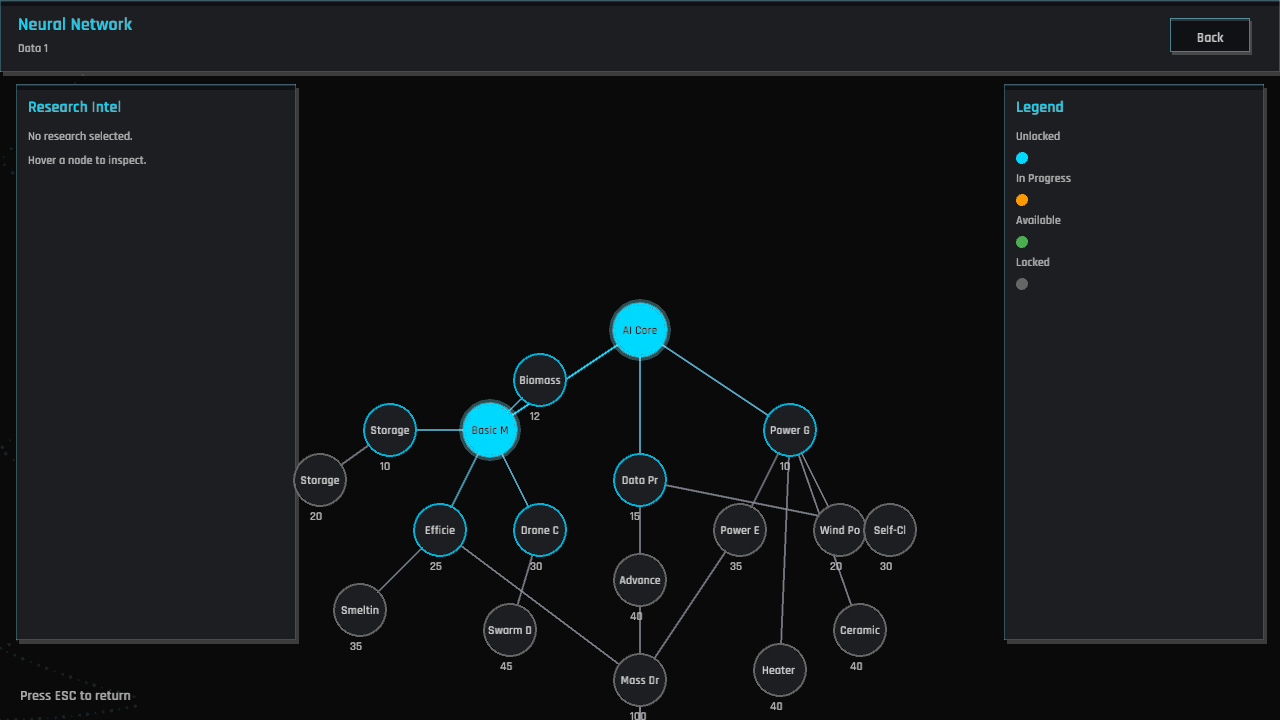
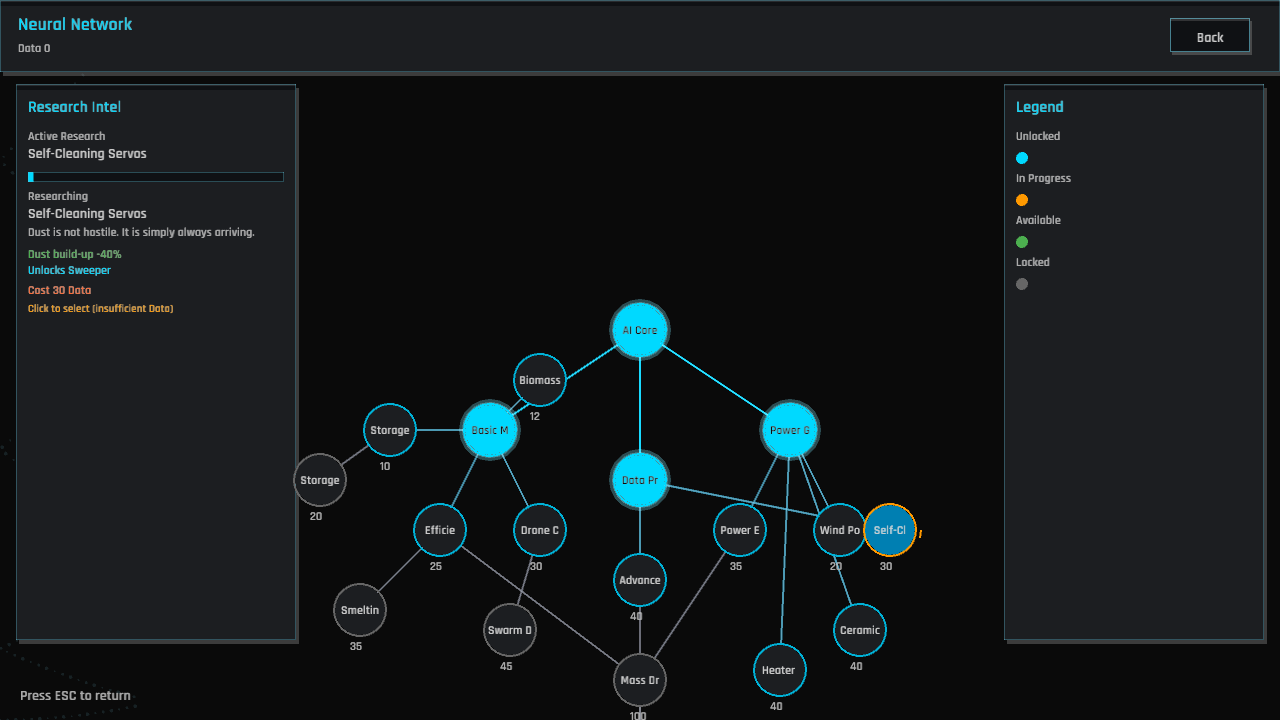
The tree says what a tech does, so the prose no longer has to
Every research node explained itself twice or not at all: the description
carried the numbers ("-40% dust accumulation and unlocks Sweepers") and the
declared modifiers driving the actual simulation were never shown. The
inspect panel now renders them - each stat named and signed, green where it
is a gain and amber where it is a cost - followed by every building the node
opens. Less of a bad thing counts as a gain, so -40% dust reads as good news
while +20% power draw does not.

Stat names live in a "stats" block in research.json and are checked at load:
a stat the game knows with nothing to call itself is a startup failure, not a
panel that quietly shows a raw id. The panel also falls back to whatever is
being researched when nothing is hovered, which is most of the time.

With the numbers rendered from data, all 19 descriptions were free to stop
restating them and say something instead.

diff --git a/src/screens/research_view.rs b/src/screens/research_view.rs
@@ -1,6 +1,6 @@
 //! Neural network research interface
 
-use crate::engine::{ResearchState, ResearchTree};
+use crate::engine::{describe_modifier, ResearchState, ResearchTree};
 use crate::ui::{draw_button_sized, draw_panel, Colors, Dimensions};
 use macroquad::prelude::*;
 use macroquad_toolkit::math::pulse01;
@@ -309,11 +309,18 @@ pub fn render_research_view(
         }
     }
 
-    // Info panel for hovered node
-    if let Some(node_id) = hovered_node {
+    // Info panel. With nothing under the cursor it falls back to whatever is
+    // being researched, so the panel is worth having between hovers.
+    let inspected = hovered_node.or(research_state.current_research.as_deref());
+    if let Some(node_id) = inspected {
         if let Some(node) = research_tree.get_node(node_id) {
+            let heading = if hovered_node.is_some() {
+                "Hovered Node"
+            } else {
+                "Researching"
+            };
             draw_ui_text(
-                "Hovered Node",
+                heading,
                 left_panel_x + 12.0,
                 left_text_y,
                 12.0,
@@ -334,15 +341,18 @@ pub fn render_research_view(
                 Colors::TEXT_DIM,
             );
 
+            // What it actually does, under what it says it does.
+            let mut y = left_text_y + 58.0;
+            for (text, color) in node_effects(node_id) {
+                draw_ui_text(&text, left_panel_x + 12.0, y, 12.0, color);
+                y += 16.0;
+            }
+            y += 4.0;
+
             if !research_state.is_unlocked(node_id) {
                 let cost_text = format!("Cost {:.0} Data", node.data_cost);
-                draw_ui_text(
-                    &cost_text,
-                    left_panel_x + 12.0,
-                    left_text_y + 54.0,
-                    12.0,
-                    Colors::ACCENT,
-                );
+                draw_ui_text(&cost_text, left_panel_x + 12.0, y, 12.0, Colors::ACCENT);
+                y += 18.0;
 
                 if research_tree.can_select(node_id, &research_state.unlocked) {
                     if research_tree.can_research(node_id, &research_state.unlocked, data_available)
@@ -350,7 +360,7 @@ pub fn render_research_view(
                         draw_ui_text(
                             "Click to research",
                             left_panel_x + 12.0,
-                            left_text_y + 72.0,
+                            y,
                             12.0,
                             Colors::SUCCESS,
                         );
@@ -358,7 +368,7 @@ pub fn render_research_view(
                         draw_ui_text(
                             "Click to select (insufficient Data)",
                             left_panel_x + 12.0,
-                            left_text_y + 72.0,
+                            y,
                             11.0,
                             Colors::WARNING,
                         );
@@ -371,7 +381,7 @@ pub fn render_research_view(
                     draw_ui_text(
                         "Prerequisites not met",
                         left_panel_x + 12.0,
-                        left_text_y + 72.0,
+                        y,
                         12.0,
                         Colors::ERROR,
                     );
@@ -379,19 +389,13 @@ pub fn render_research_view(
                     draw_ui_text(
                         "Not enough Data",
                         left_panel_x + 12.0,
-                        left_text_y + 72.0,
+                        y,
                         12.0,
                         Colors::WARNING,
                     );
                 }
             } else {
-                draw_ui_text(
-                    "UNLOCKED",
-                    left_panel_x + 12.0,
-                    left_text_y + 60.0,
-                    12.0,
-                    Colors::SUCCESS,
-                );
+                draw_ui_text("UNLOCKED", left_panel_x + 12.0, y, 12.0, Colors::SUCCESS);
             }
         }
     } else {
@@ -482,4 +486,39 @@ pub fn render_research_view(
     }
 
     ResearchAction::None
+}
+
+/// What a node does, as lines for the hover panel: every stat it moves, then
+/// anything it lets the swarm build.
+///
+/// A node with neither says so rather than showing nothing, because "no
+/// effect" and "the panel forgot to draw" look identical otherwise.
+fn node_effects(node_id: &str) -> Vec<(String, Color)> {
+    let data = crate::data::game_data();
+    let mut lines = Vec::new();
+
+    if let Some(def) = data.research.nodes.iter().find(|node| node.id == node_id) {
+        for modifier in &def.modifiers {
+            let Some(summary) = describe_modifier(modifier) else {
+                continue;
+            };
+            let color = if summary.is_gain {
+                Colors::SUCCESS
+            } else {
+                Colors::WARNING
+            };
+            lines.push((format!("{} {}", summary.label, summary.change), color));
+        }
+    }
+
+    for building in &data.buildings {
+        if building.unlocked_by.as_deref() == Some(node_id) {
+            lines.push((format!("Unlocks {}", building.name), Colors::PRIMARY));
+        }
+    }
+
+    if lines.is_empty() {
+        lines.push(("No direct effect".to_string(), Colors::TEXT_DIM));
+    }
+    lines
 }

diff --git a/src/engine/modifiers.rs b/src/engine/modifiers.rs
@@ -65,6 +65,72 @@ impl StatId {
     pub fn from_id(id: &str) -> Option<Self> {
         StatId::ALL.into_iter().find(|stat| stat.id() == id)
     }
+
+    /// What this stat is called where a player can see it. Falls back to the
+    /// raw id, which is what an unlabelled stat deserves.
+    pub fn label(self) -> &'static str {
+        crate::data::game_data()
+            .research
+            .stats
+            .iter()
+            .find(|entry| entry.id == self.id())
+            .map(|entry| entry.label.as_str())
+            .unwrap_or_else(|| self.id())
+    }
+
+    /// Whether a tech moving this stat down is doing the player a favour.
+    pub fn lower_is_better(self) -> bool {
+        crate::data::game_data()
+            .research
+            .stats
+            .iter()
+            .find(|entry| entry.id == self.id())
+            .is_some_and(|entry| entry.lower_is_better)
+    }
+}
+
+/// One declared modifier, said in words: what it moves, by how much, and
+/// whether that is good news.
+#[derive(Debug, Clone, PartialEq)]
+pub struct ModifierSummary {
+    pub label: &'static str,
+    pub change: String,
+    /// False when the tech is charging the player something for the rest.
+    pub is_gain: bool,
+}
+
+/// Describe a declared modifier for display. `None` for a modifier that does
+/// not parse, which cannot happen in shipped data - it is rejected at load.
+pub fn describe_modifier(def: &ModifierDef) -> Option<ModifierSummary> {
+    let (stat, op, value) = parse_modifier(def).ok()?;
+    let change = match op {
+        ModifierOp::Percent => format!("{}{:.0}%", sign(value), value * 100.0),
+        ModifierOp::Add => format!("{}{}", sign(value), trim_number(value)),
+    };
+    Some(ModifierSummary {
+        label: stat.label(),
+        change,
+        is_gain: (value < 0.0) == stat.lower_is_better(),
+    })
+}
+
+fn sign(value: f32) -> &'static str {
+    if value < 0.0 {
+        // The number already carries its minus.
+        ""
+    } else {
+        "+"
+    }
+}
+
+/// Whole numbers without a trailing `.0`, because "+1 drone" reads better
+/// than "+1.0 drone".
+fn trim_number(value: f32) -> String {
+    if (value - value.round()).abs() < 0.001 {
+        format!("{:.0}", value)
+    } else {
+        format!("{:.2}", value)
+    }
 }
 
 /// How a modifier folds into a stat.
@@ -179,6 +245,47 @@ mod tests {
             op: op.to_string(),
             value,
         }
+    }
+
+    #[test]
+    fn every_stat_the_game_knows_has_something_to_call_itself() {
+        for stat in StatId::ALL {
+            assert_ne!(
+                stat.label(),
+                stat.id(),
+                "{} is only ever shown as its raw id",
+                stat.id()
+            );
+        }
+    }
+
+    #[test]
+    fn a_percent_is_said_as_a_percent_and_a_count_as_a_count() {
+        let percent = describe_modifier(&modifier("drill_output", "percent", 0.25)).unwrap();
+        assert_eq!(percent.change, "+25%");
+        let count = describe_modifier(&modifier("drones_per_drill", "add", 1.0)).unwrap();
+        assert_eq!(count.change, "+1");
+        assert_eq!(count.label, StatId::DronesPerDrill.label());
+    }
+
+    #[test]
+    fn less_of_a_bad_thing_reads_as_a_gain_and_more_of_it_does_not() {
+        let quieter = describe_modifier(&modifier("dust_accumulation", "percent", -0.3)).unwrap();
+        assert_eq!(quieter.change, "-30%");
+        assert!(quieter.is_gain, "less dust is good news");
+
+        let hungrier = describe_modifier(&modifier("power_consumption", "percent", 0.2)).unwrap();
+        assert!(!hungrier.is_gain, "more power draw is a cost");
+
+        // And the ordinary direction still holds for ordinary stats.
+        let weaker = describe_modifier(&modifier("drill_output", "percent", -0.1)).unwrap();
+        assert!(!weaker.is_gain);
+    }
+
+    #[test]
+    fn a_modifier_the_game_cannot_read_is_not_described() {
+        assert!(describe_modifier(&modifier("not_a_stat", "add", 1.0)).is_none());
+        assert!(describe_modifier(&modifier("drill_output", "multiply", 1.0)).is_none());
     }
 
     #[test]

diff --git a/src/data/defs.rs b/src/data/defs.rs
@@ -116,10 +116,24 @@ impl ResearchNodeDef {
     }
 }
 
+/// What a stat is called where a player can see it, and which direction is
+/// good news. Without this a modifier can only be shown as its raw id.
+#[derive(Debug, Clone, Deserialize)]
+pub struct StatLabelDef {
+    pub id: String,
+    pub label: String,
+    /// True for stats a tech is trying to push *down* - dust, power draw, how
+    /// much of a hazard still gets through.
+    #[serde(default)]
+    pub lower_is_better: bool,
+}
+
 #[derive(Debug, Clone, Deserialize)]
 pub struct ResearchData {
     pub starting_unlocked: Vec<String>,
     pub nodes: Vec<ResearchNodeDef>,
+    #[serde(default)]
+    pub stats: Vec<StatLabelDef>,
 }
 
 /// What one Seed Ship stage swallows before it is done.
@@ -345,7 +359,25 @@ impl GameData {
         let research: ResearchData = load_json(research_json).unwrap_or_else(|_| ResearchData {
             starting_unlocked: vec!["core".to_string(), "basic_mining".to_string()],
             nodes: vec![],
+            stats: vec![],
         });
+
+        // Every stat needs a name a player can read, or the tree can only
+        // explain itself in the ids the JSON is written in. Checked against
+        // the file just parsed, never through game_data(): this runs while
+        // that is still being built.
+        if !research.stats.is_empty() {
+            for entry in &research.stats {
+                if crate::engine::StatId::from_id(&entry.id).is_none() {
+                    panic!("research stats: unknown stat \"{}\"", entry.id);
+                }
+            }
+            for stat in crate::engine::StatId::ALL {
+                if !research.stats.iter().any(|entry| entry.id == stat.id()) {
+                    panic!("research stats: no label for \"{}\"", stat.id());
+                }
+            }
+        }
 
         // A typo in a modifier would otherwise be a tech that silently does
         // nothing - the exact bug this system exists to stop.

diff --git a/src/main.rs b/src/main.rs
@@ -478,7 +478,17 @@ impl Game {
         self.capture_still = true;
         match scene {
             "mainmenu" => self.phase = GamePhase::MainMenu,
-            "research" => self.phase = GamePhase::Research,
+            "research" => {
+                self.phase = GamePhase::Research;
+                // A node that both moves a stat and opens a building, so the
+                // panel shows everything it can say about one.
+                self.research_state.unlocked.push("power_grid".to_string());
+                self.research_state
+                    .unlocked
+                    .push("data_processing".to_string());
+                self.research_state.current_research = Some("self_cleaning_servos".to_string());
+                self.sync_research_to_planet();
+            }
             "logistics" => {
                 self.phase = GamePhase::Playing;
                 self.seed_logistics_scene();

diff --git a/TODO.md b/TODO.md
@@ -57,7 +57,7 @@ Hazards are per-world data (`planets.json`). Acid rain corrodes anything carryin
 Techs declare their effects as modifiers in `research.json` (`engine::modifiers`), validated at load; the stringly-typed `unlocked_techs.contains(...)` reads are gone.
 
 - Expand the tree well past 15 nodes, with per-planet branches and hazard counters as research.
-- The research view shows a node's prose description but not the stats it moves; render the declared modifiers so the tree explains itself.
+- The tree explains itself: the inspect panel lists every stat a node moves (named and signed from a `stats` block in `research.json`, green when it is a gain, amber when it is a cost) and every building it opens, and falls back to whatever is being researched when nothing is hovered. Still missing: nothing shows the *cumulative* stat sheet, so a player cannot see what the swarm's drill output actually is, only what each tech would add to it.
 - Add stats for the values still fixed in Rust: drone speed, repeater range, collapse thresholds, harvest yields.
 
 ## Content
@@ -73,7 +73,7 @@ The first chain runs end to end and nothing teleports: a drill piles ore on its 
 - Tier the resource set further. Alloy is the first refined product; mass-driver strategy still has nothing worth shipping between worlds.
 - Larger and more varied maps with landmark features. Sizes are per-world data now (20x20 to 26x26) and the camera does not cap them, but the generator has no notion of a feature.
 - Replace the four `tier % 4` directives and four hardcoded achievements with a real objective/milestone system and a full achievement set. The Power Surplus directive still uses one number as both the power threshold and the seconds it must be held, so the two scale together by accident.
-- Write the GDD's "indifferent optimizer" tone into directives and research descriptions. Arrival lines have it (`planets.json`), and the Seed Ship stages do; everything else still reads like a spreadsheet.
+- Write the GDD's "indifferent optimizer" tone into directives. Arrival lines have it (`planets.json`), the Seed Ship stages do, and all 19 research descriptions now do — they stopped restating the numbers once the inspect panel started rendering them. The four `tier % 4` directives are what is left.
 
 ## Simulation architecture
 
